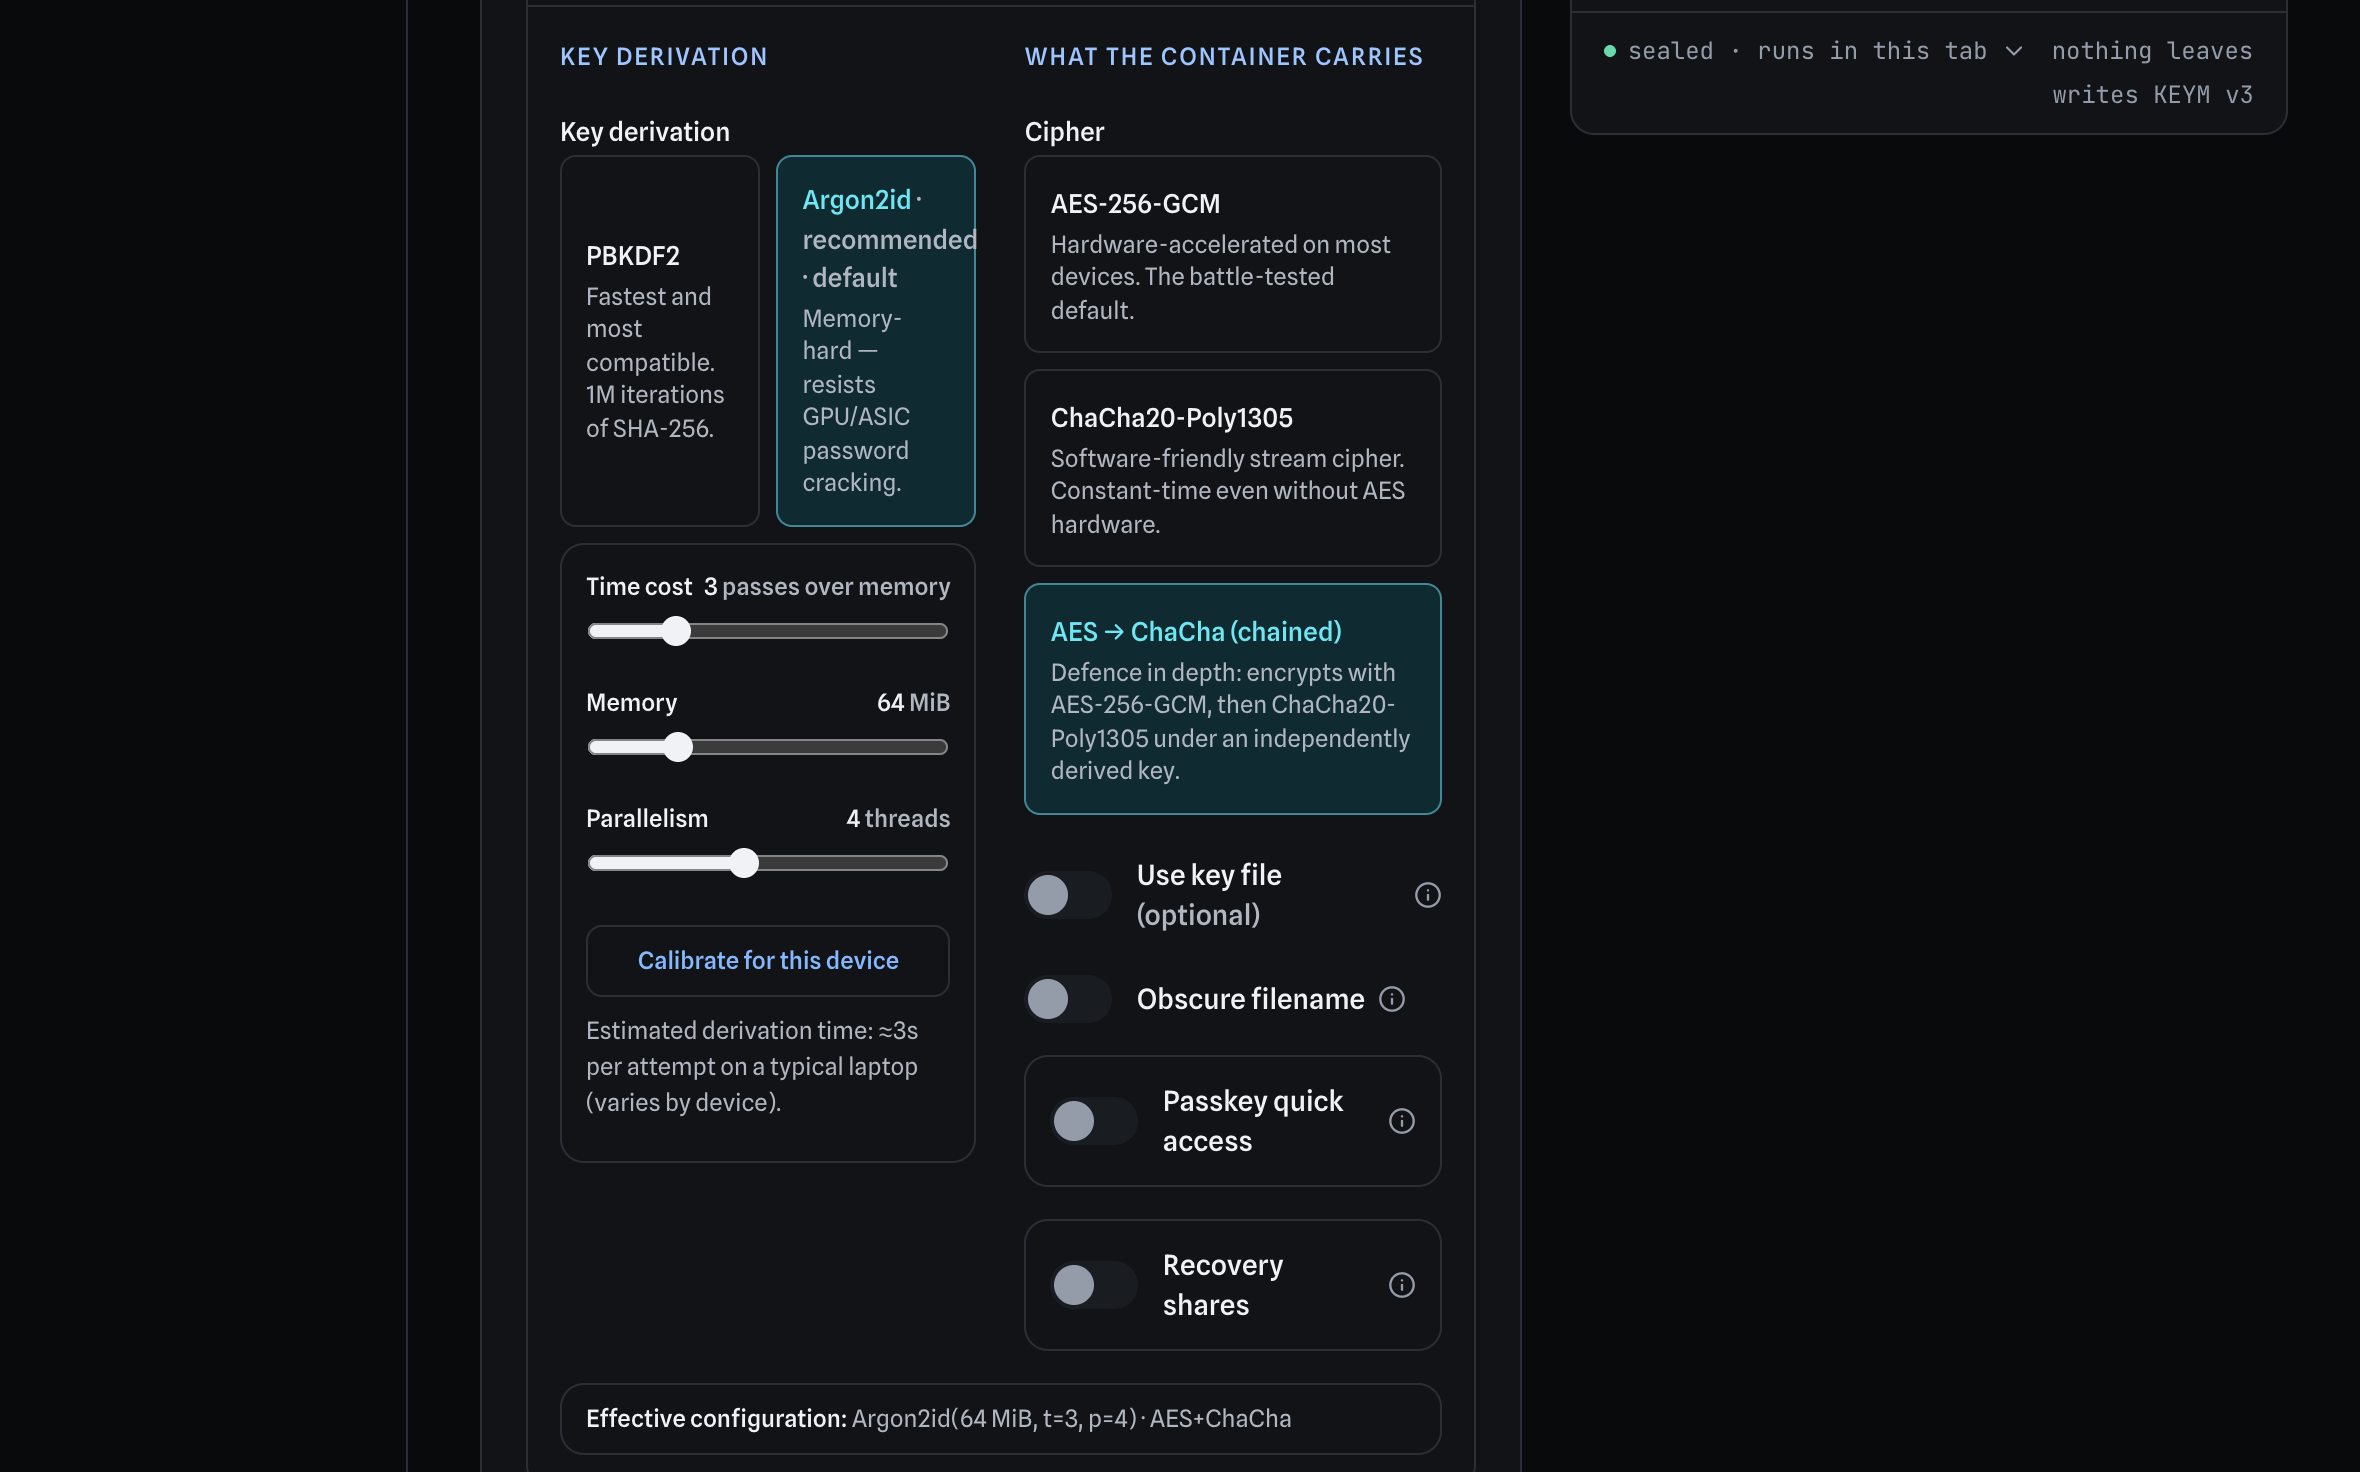
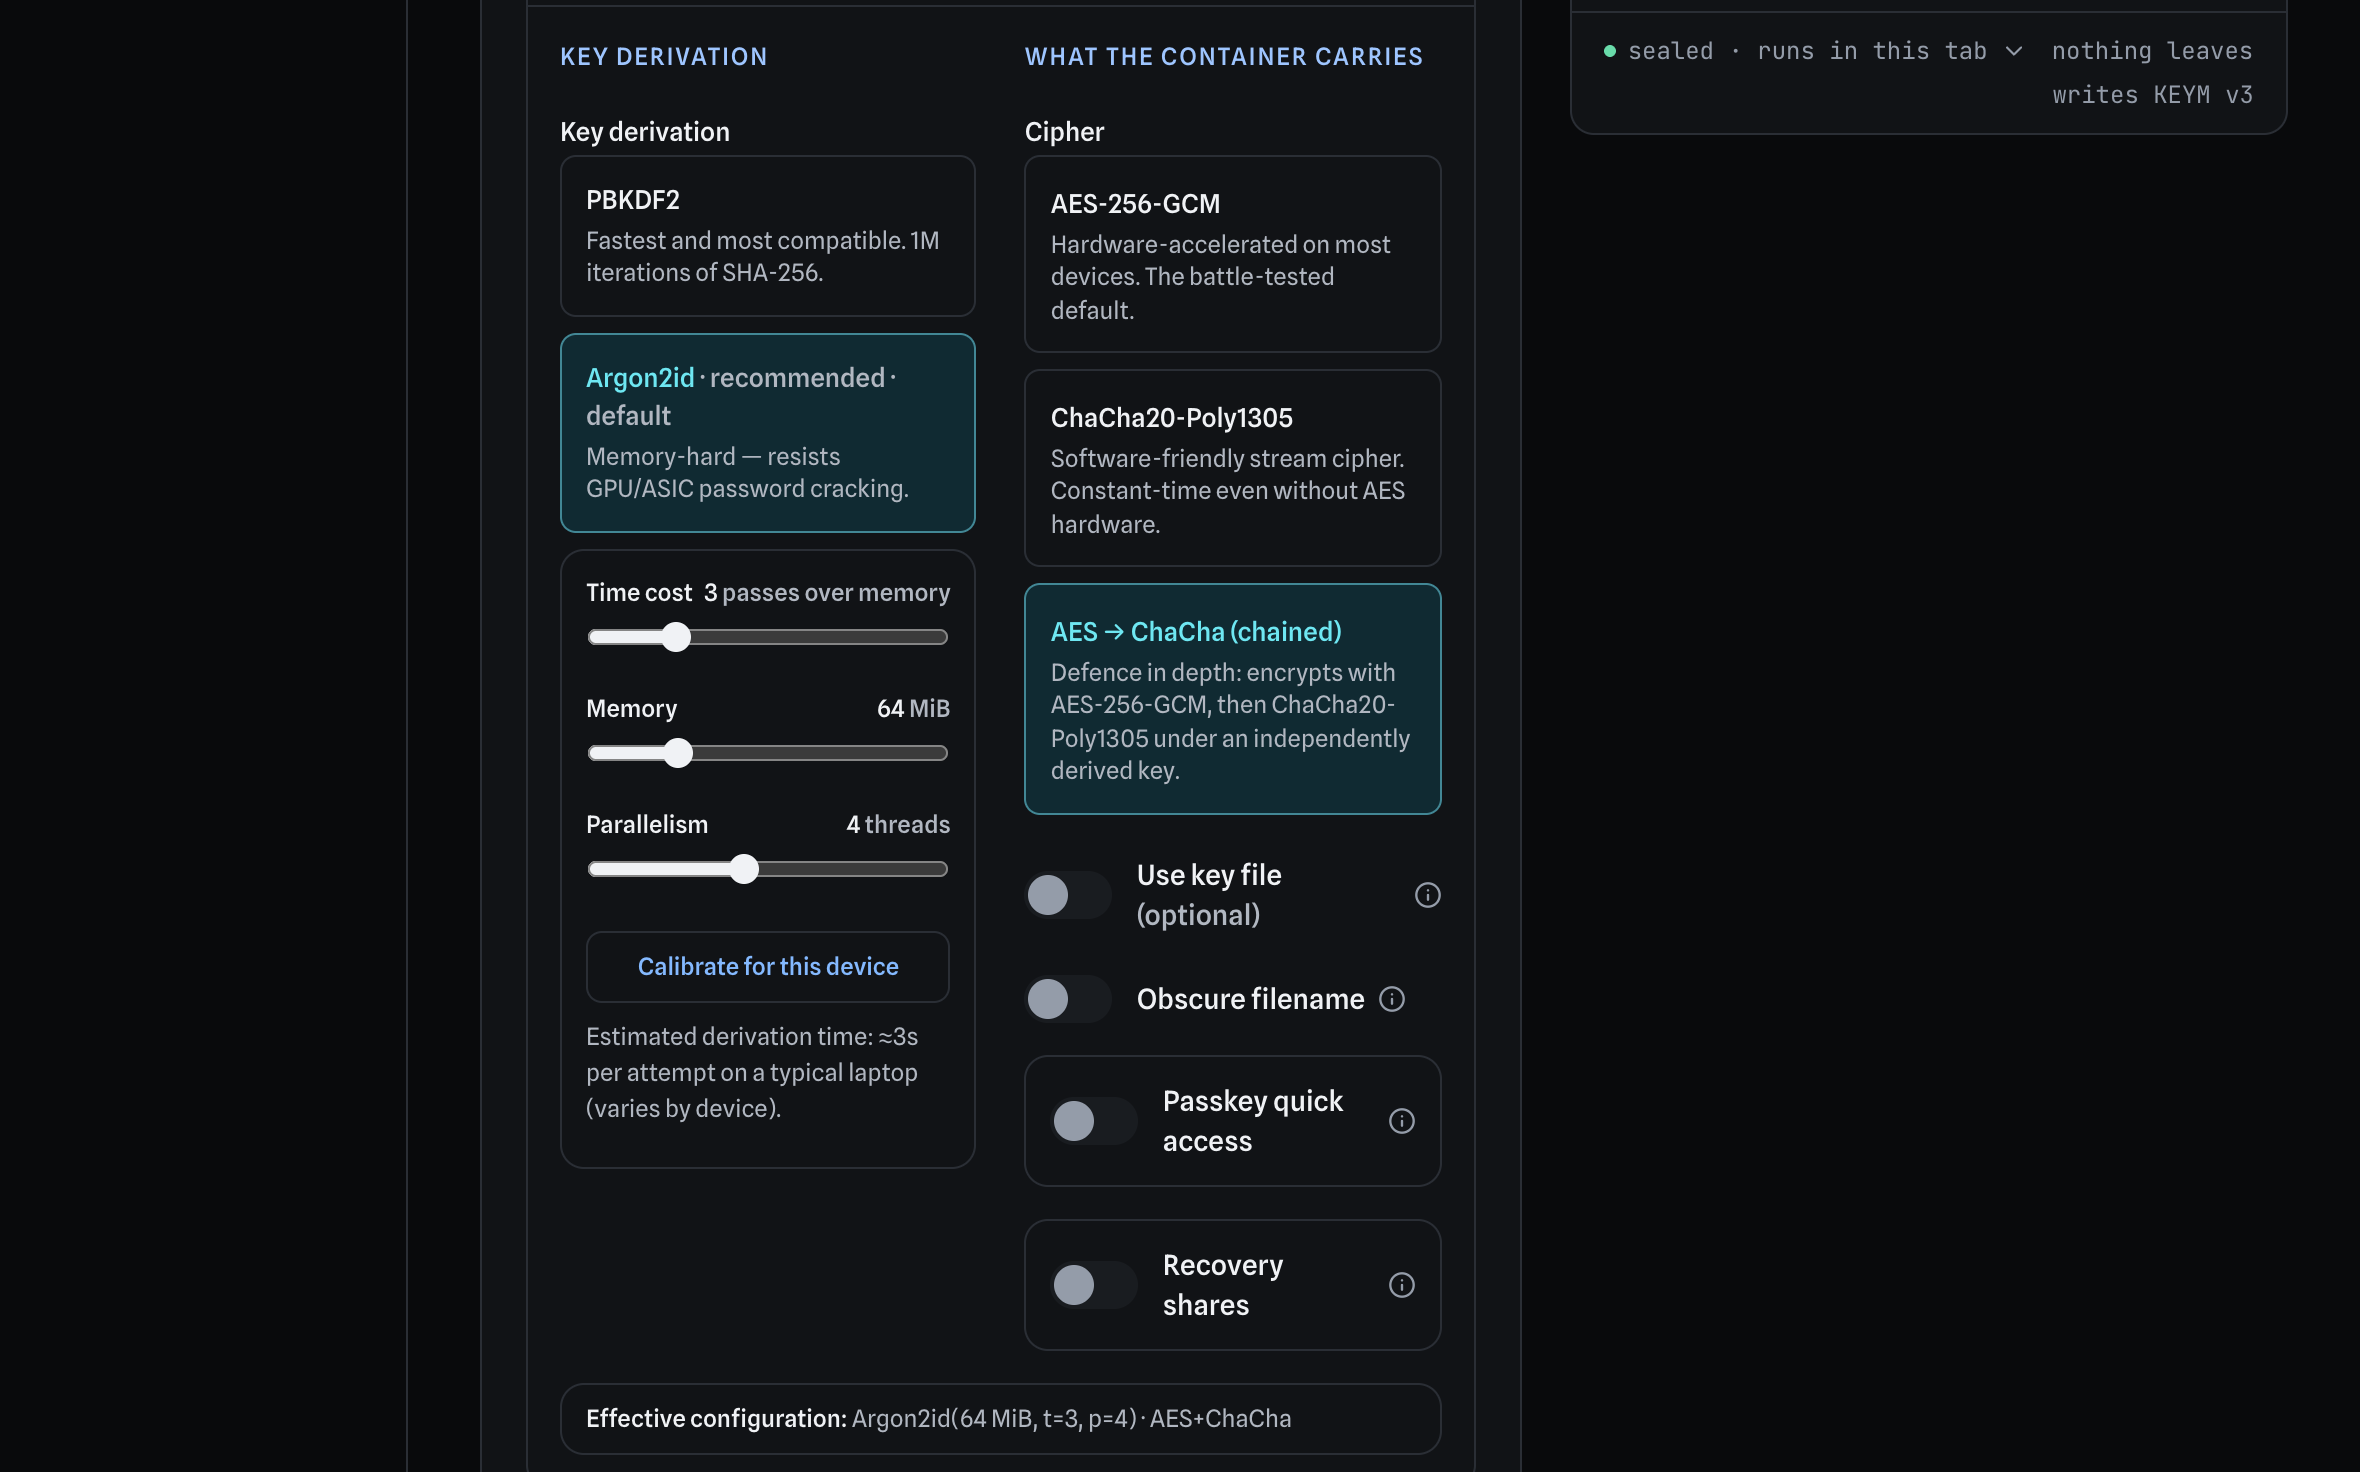
Refresh every README and walkthrough screenshot

Changed region(s): [[0.2165, 0.0938, 0.4331, 0.4375], [0.2475, 0.625, 0.4021, 0.7812], [0.2475, 0.4688, 0.4021, 0.5938]]

diff --git a/docs/design/STATUS.md b/docs/design/STATUS.md
@@ -30,11 +30,15 @@ decisions recorded below.
   aria-pressed. Entered content stays off-white; descriptions stay silver.
 - Local branch: `ui/linear-workspace`. Preview iterations are not deployed.
 - Latest checks: production export with Webpack fallback and CSP/build manifest
-  postprocessing; typecheck and 44 Chromium browser tests passed, including
+  postprocessing; typecheck and 255 Chromium browser tests passed, including
   rendered Spline Sans, offline font caching, accessibility, responsive layout,
   password feedback, container inspection, and receipts. The new font test
   first failed against the prior Jakarta build. All three new control-state
   tests failed against the prior neutral-control build before implementation.
+  Crypto regressions passed: 45 legacy checks and 238 Keymaker checks. The
+  upstream passkey-binding checks passed as well.
+  The five deployment-path tests skipped by the root run then passed separately
+  against a fresh `/Keymaker-v2` export (assets, worker, offline cache and CSP).
   Accessibility scans now wait
   for finite entrance animations before measuring text contrast.
   Palette audit passed (11,480 colors across 12 views); icon audit passed
@@ -42,6 +46,18 @@ decisions recorded below.
 - `scripts/capture-workspace.mjs` captures review screens, waiting for the
   selected tab, visible panel, fonts and finite transitions before taking each
   screenshot. Includes a public demo-file state and expanded advanced options.
+- All 11 README screenshots and all 4 walkthrough screenshots were regenerated
+  from the Graphite production build. All 15 retain the canonical 2360px width;
+  every README image was checked against its previous blob, with no stale image
+  remaining. The README lead image now frames the complete Encrypt workflow.
+- Screenshot review caught cramped Argon2id option copy at 1180px. KDF cards now
+  use available container width rather than forcing two narrow columns. A text
+  bounding-box regression first failed on the old build, then passed at 320,
+  768, 1180 and 1440px with the fix.
+- The branch includes main's passkey-enrolment binding fix (`adcbe0c`).
+  No cryptographic implementation or container-format changes are part of the
+  workspace diff. Local checks can set `KEYMAKER_SEALED_TEST_PORT` if another
+  checkout has a preview on the sealed-status suite's default port 4323.
 
 ## Historical Nightpaper decisions (superseded)
 
